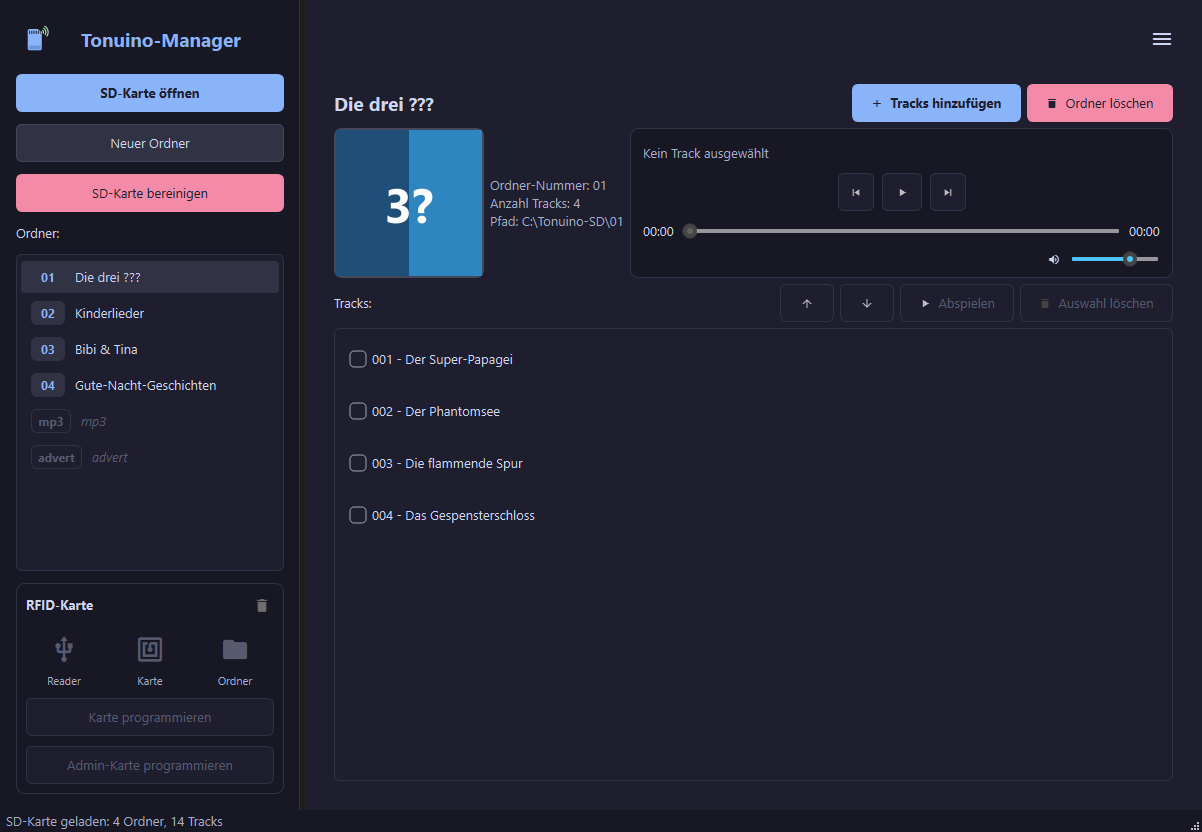
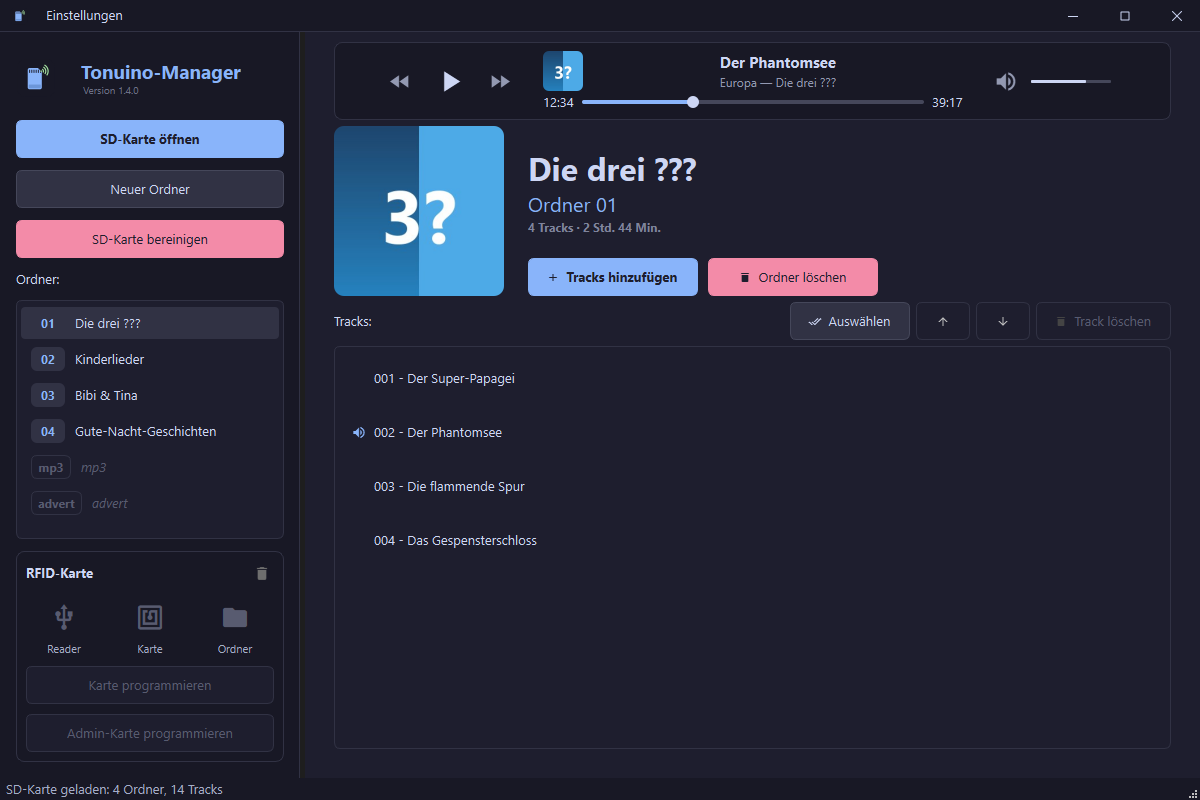
Update README and screenshot for the new player and multi-select

diff --git a/README.md b/README.md
@@ -7,10 +7,12 @@ Ein hübsches Tool zum Verwalten von Tonuino SD-Karten und RFID-Karten für Wind
 ## Features
 
 - **SD-Karten-Verwaltung**: Tonuino-Ordnerstruktur wird automatisch erkannt, Ordner anlegen/löschen
-- **Tracks**: hinzufügen, mehrfach löschen, umsortieren – Dateien werden automatisch lückenlos nummeriert (001.mp3, 002.mp3, …). Maximal 255 Tracks pro Ordner
+- **Tracks**: hinzufügen, löschen, umsortieren – Dateien werden automatisch lückenlos nummeriert (001.mp3, 002.mp3, …). Maximal 255 Tracks pro Ordner
+- **Mehrfachauswahl** (wie in Apple Mail): „Auswählen“ blendet Auswahlkreise ein, Löschen und Nach oben/unten wirken dann auf alle markierten Tracks, „Fertig“ kehrt zur Einzelauswahl zurück
+- **Player**: Tracks direkt anhören – Symbol beim Überfahren einer Zeile (Play/Pause), Player oben mit Cover, Titel, Interpret und Album, Playbar, Zurück/Weiter, Lautstärke und Stumm-Schalter
 - **Audio-Konvertierung**: MP3, WAV, FLAC, OGG, AAC, WMA, M4A, OPUS werden automatisch nach MP3 konvertiert (FFmpeg ist enthalten)
-- **Metadaten-Editor**: ID3-Tags bearbeiten oder durch Leeren der Felder entfernen
-- **Ordnername & Cover**: aus Album-Tag und eingebettetem Cover des ersten Tracks
+- **Metadaten-Editor**: ID3-Tags und Cover bearbeiten (Cover per Klick, beim Überfahren erscheint „Cover ändern“) oder Tags durch Leeren der Felder entfernen
+- **Ordnername & Cover**: aus Album-Tag und eingebettetem Cover des ersten Tracks; das Ordner-Cover lässt sich direkt in der Ordneransicht ändern
 - **SD-Karte bereinigen**: entfernt alles, was nicht zur Tonuino-Struktur gehört, und nummeriert Ordner und Tracks lückenlos neu (mit Sicherheitsabfrage)
 - **RFID-Programmierung**: Ordner- und Admin-Karten per ACR122U oder direkt über den TonUINO, mit Live-Status von Reader, Karte und Ordner in der Sidebar (siehe [RFID-Karten](#rfid-karten))
 - **Updates**: Prüfung beim Start (im Menü „Einstellungen“ abschaltbar oder manuell auslösbar)
@@ -45,7 +47,7 @@ SD-Karte/
 └── advert/     → Systemordner (Advert), wird nicht umsortiert
 ```
 
-Anzeigename und Cover eines Ordners kommen aus den ID3-Tags (Album-Tag `TALB` bzw. eingebettetes Cover `APIC` des ersten passenden Tracks), sonst „Ordner NN“ bzw. eine `cover.jpg`/`cover.png`/`folder.jpg`/`folder.png`/`front.jpg` im Ordner. Beides lässt sich im Metadaten-Editor oder per Klick auf das Cover setzen.
+Anzeigename und Cover eines Ordners kommen aus den ID3-Tags (Album-Tag `TALB` bzw. eingebettetes Cover `APIC` des ersten passenden Tracks), sonst „Ordner NN“ bzw. eine `cover.jpg`/`cover.png`/`folder.jpg`/`folder.png`/`front.jpg` im Ordner. Beides lässt sich im Metadaten-Editor setzen; das Cover auch per Klick auf das Cover in der Ordneransicht (gilt dann für alle Tracks des Ordners).
 
 **SD-Karte bereinigen** löscht unwiderruflich alles außer Ordnern `01`–`99`, `mp3`, `advert` sowie allen Dateien in diesen Ordnern, die keine MP3 sind (inkl. macOS-Metadaten wie `.DS_Store`). Leere Ordner werden entfernt, Lücken geschlossen. Vorher gibt es eine Vorschau und eine Warnung, wenn das Laufwerk nicht wie eine typische SD-Karte aussieht (kein Wechseldatenträger oder über 32 GB).
 
